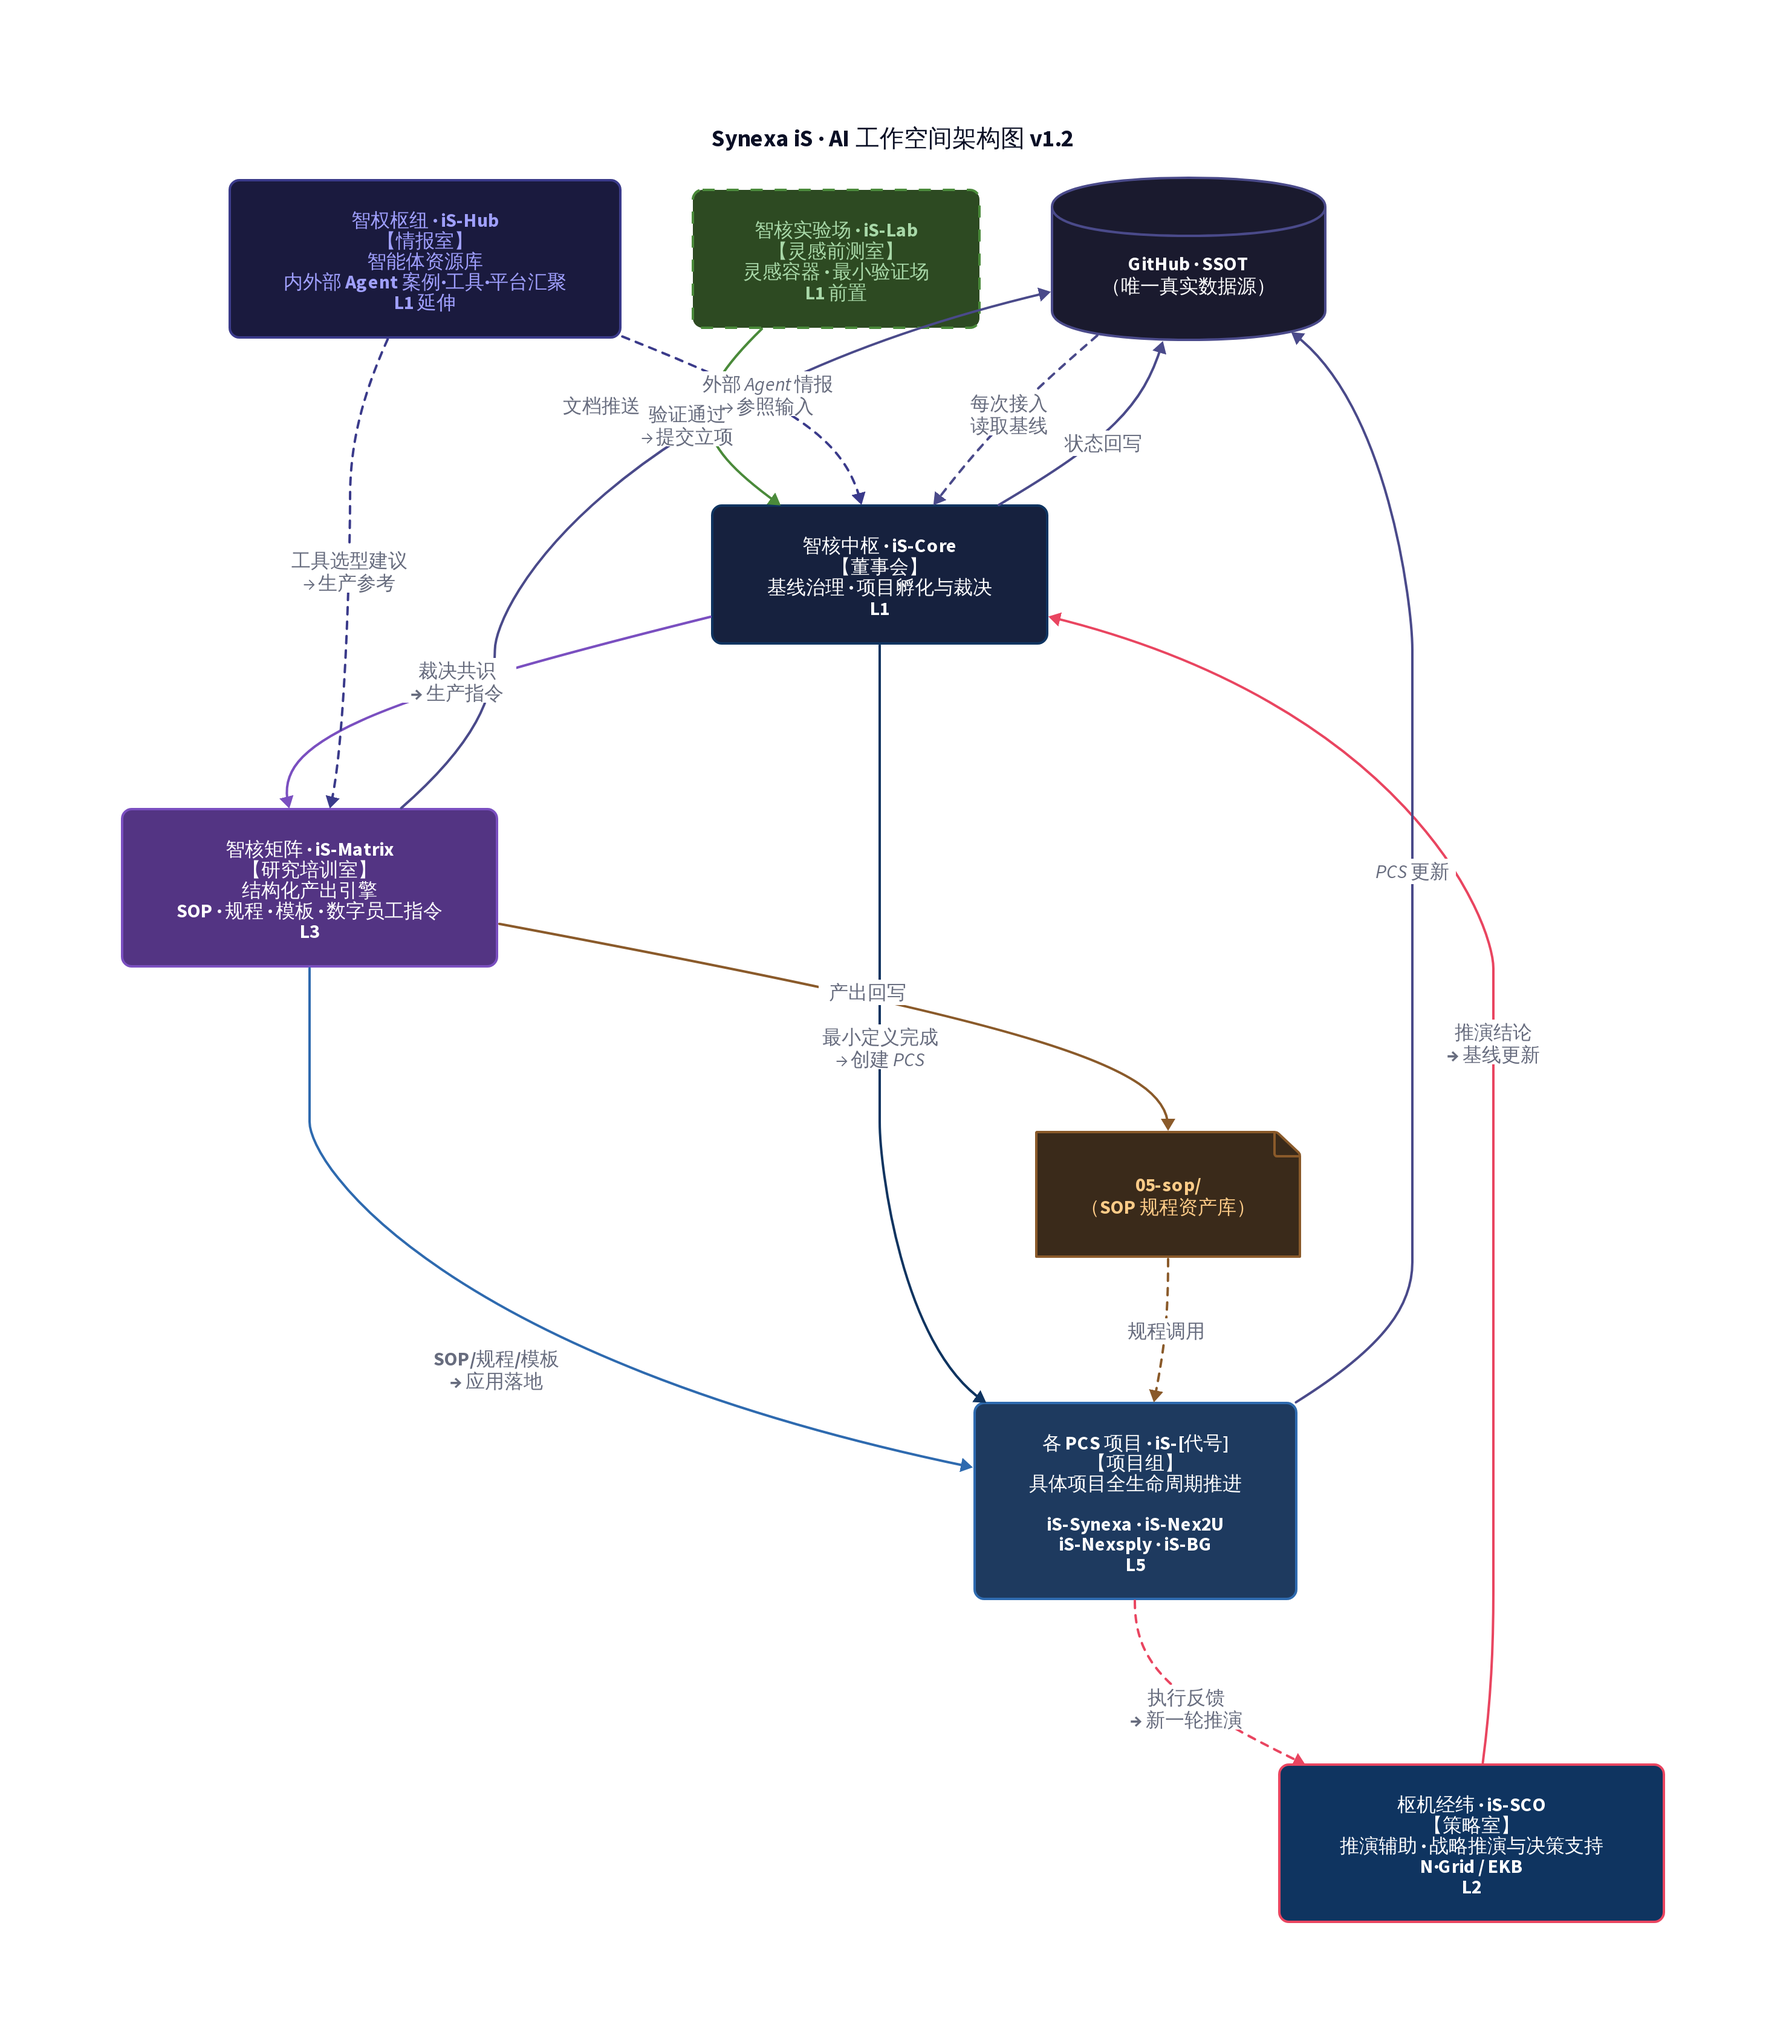
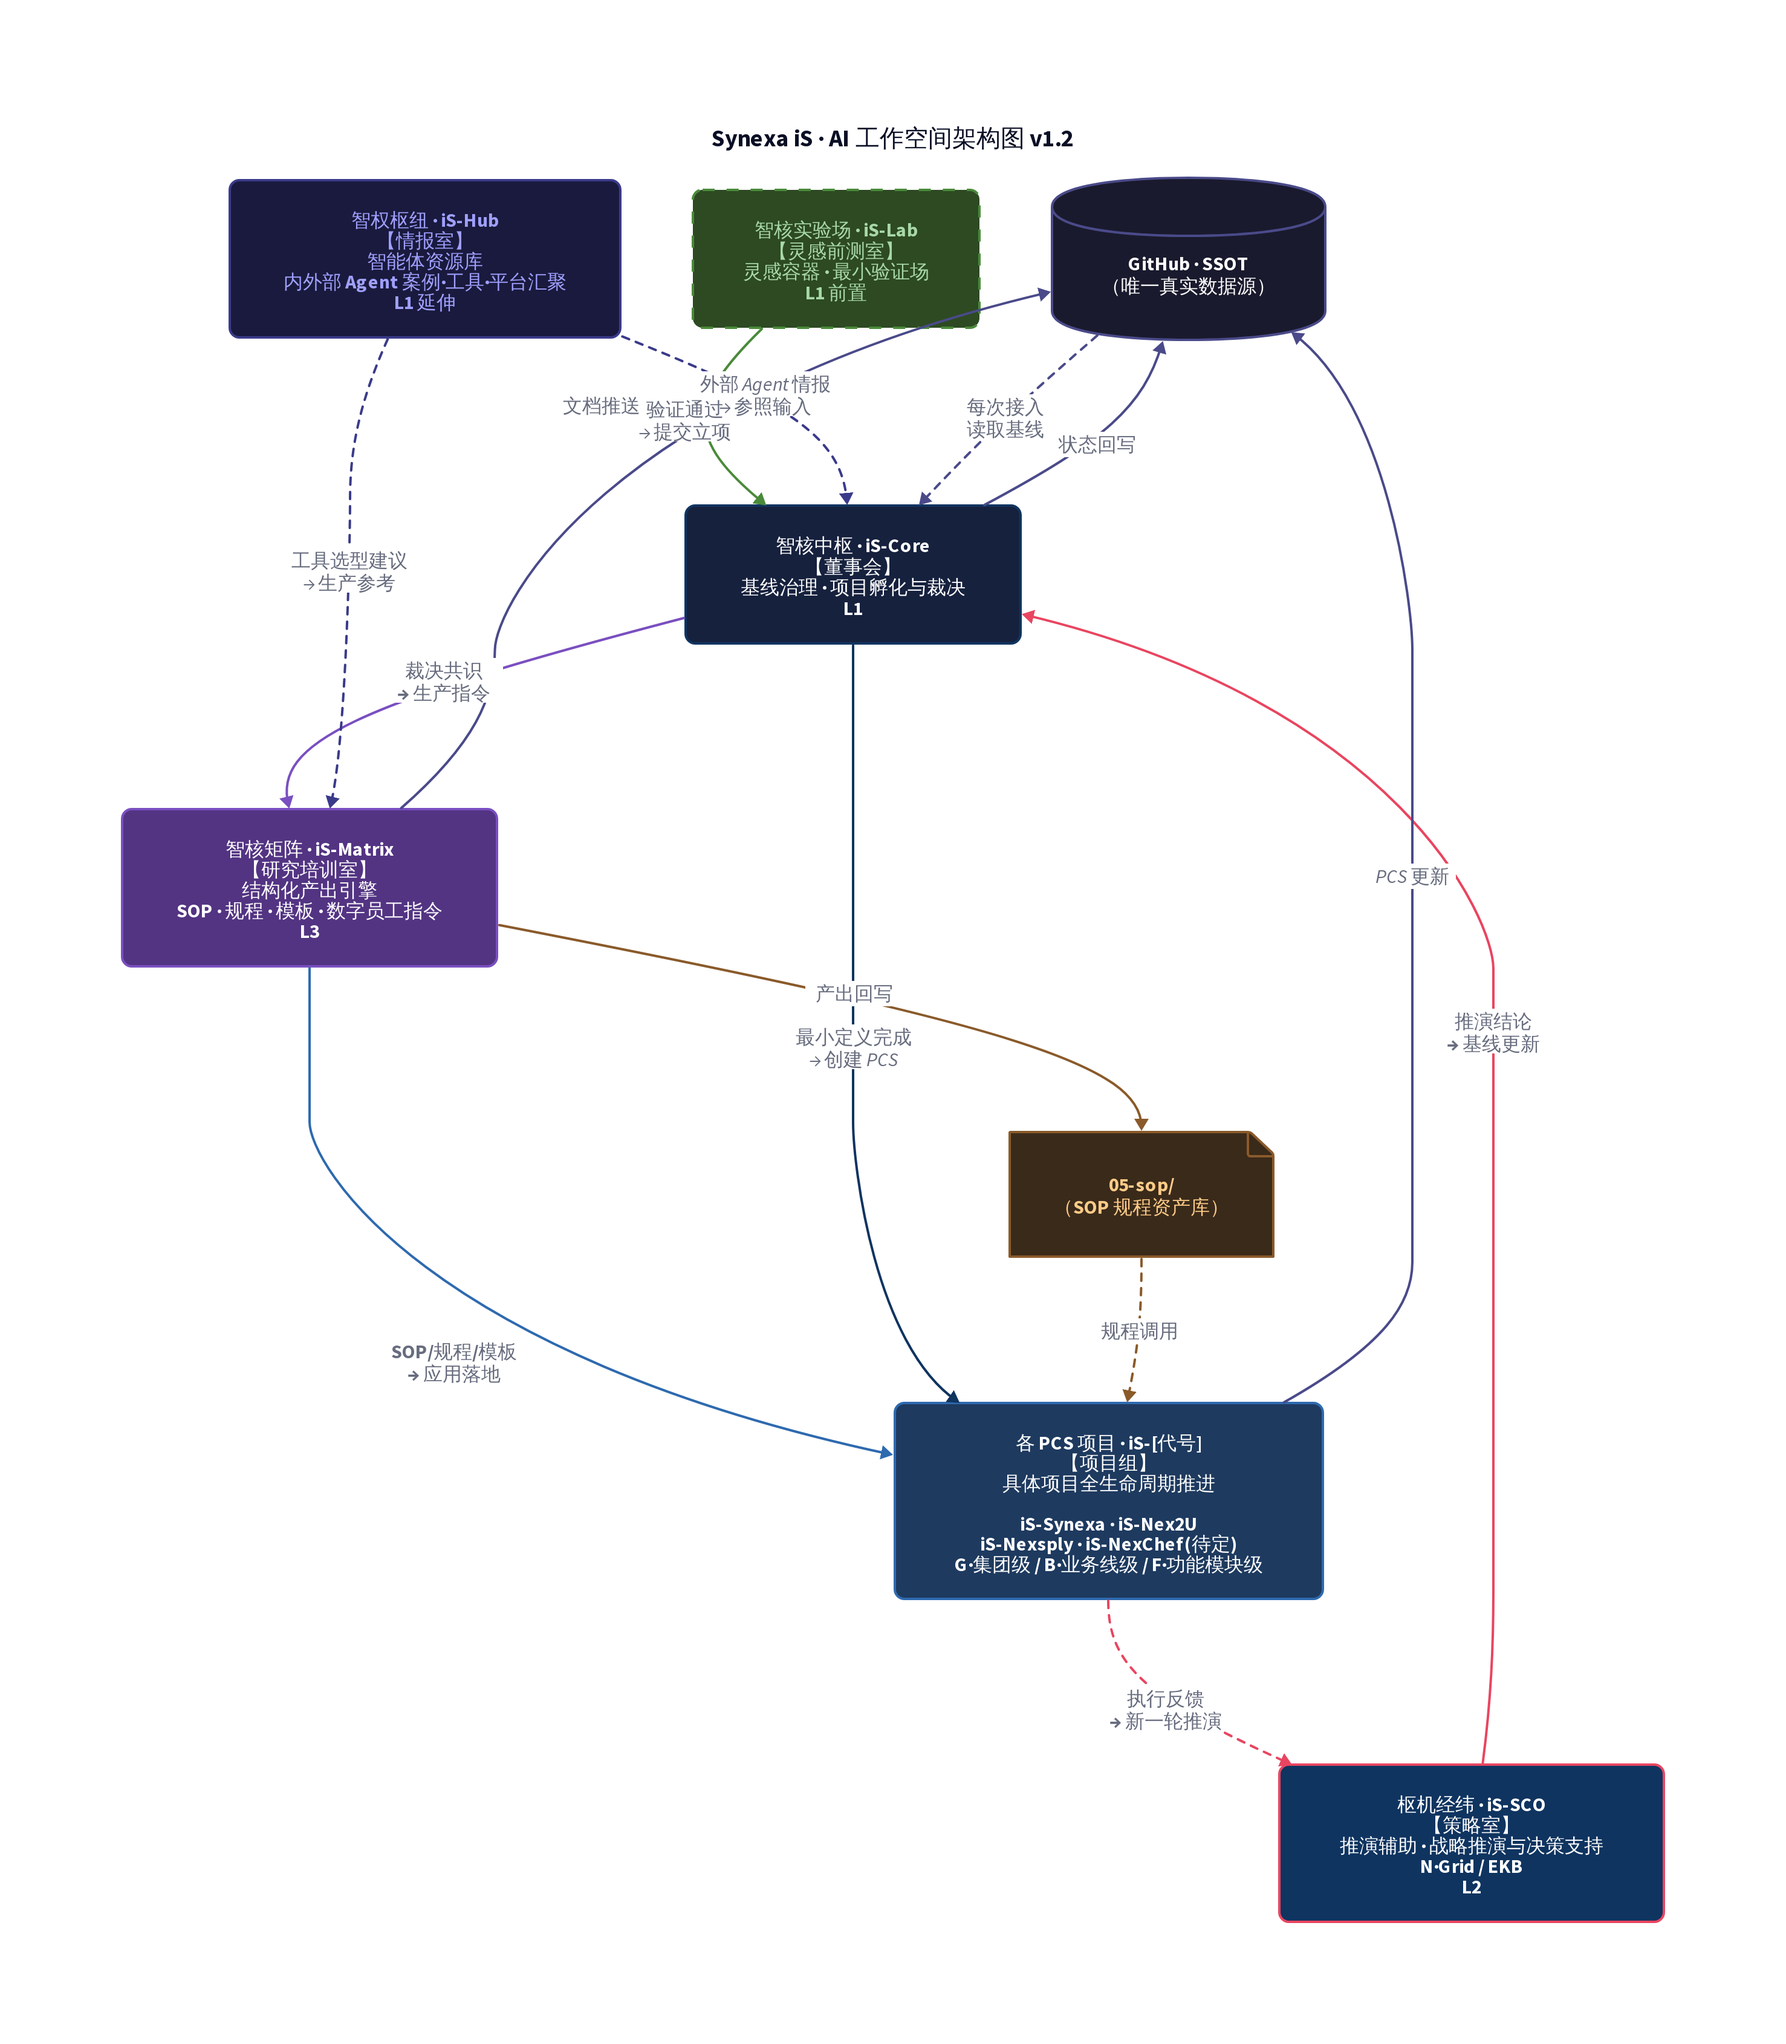
fix: 修正层级命名 G/B/F，更新 iS-BG 为 iS-NexChef（待定）
- _INDEX.md：层级改为 G·集团级 / B·业务线级 / F·功能模块级
- AI_Workspace_Architecture_v1.2.md：同步修正项目归位表达
- iS_Workspace_Architecture_v1.2.d2/png：更新 PCS 节点，重新渲染

diff --git a/03-projects/_INDEX.md b/03-projects/_INDEX.md
@@ -2,6 +2,8 @@
 
 > **定位**：所有活跃及归档项目的一览表，是 `03-projects/` 目录的导航入口。
 > **更新规则**：每次新增、归档或状态变更项目时，必须同步更新本文件。
+>
+> **层级说明**：G·集团级 / B·业务线级 / F·功能模块级
 
 ---
 
@@ -9,16 +11,16 @@
 
 | 项目代号 | 项目名称 | 层级 | 当前 Step | 目录路径 | 备注 |
 | :--- | :--- | :--- | :--- | :--- | :--- |
-| **iS-Nex2U** | 智食引擎 | L2 | Step 3 | `03-projects/Nex2U/` | 首个实战验证样板 |
-| **iS-BG** | Bella Giornata | L2 | 持续运营 | `03-projects/BG/` (待建) | 生活方式导向的现代意餐与轻社交复合空间 |
+| **iS-Nex2U** | 智食引擎 | B·业务线级 | Step 3 | `03-projects/Nex2U/` | 首个实战验证样板 |
+| **iS-NexChef** | NexChef（待定） | B·业务线级 | 持续运营 | `03-projects/NexChef/` (待建) | 餐饮与生活方式品牌，具体项目名称待确认 |
 
 ## 待启动项目 (Planned)
 
 | 项目代号 | 项目名称 | 层级 | 预期 Step | 目录路径 | 备注 |
 | :--- | :--- | :--- | :--- | :--- | :--- |
-| **iS-Synexa** | 超智建设 | L1 | 待启动 | `03-projects/Synexa/` (待建) | 超智品牌与系统本身的建设与对外表达 |
-| **iS-Nexsply** | 意臻供应链 | L2 | 待启动 | `03-projects/Nexsply/` (待建) | 全球优质原材料采购与供应链整合 |
-| **iS-SOP** | 规程资产库 | L3 | 待启动 | `05-sop/` | 生产并维护全体系的 SOP 与操作规程 |
+| **iS-Synexa** | 超智建设 | G·集团级 | 待启动 | `03-projects/Synexa/` (待建) | 超智品牌与系统本身的建设与对外表达 |
+| **iS-Nexsply** | 意臻供应链 | B·业务线级 | 待启动 | `03-projects/Nexsply/` (待建) | 全球优质原材料采购与供应链整合 |
+| **iS-SOP** | 规程资产库 | F·功能模块级 | 待启动 | `05-sop/` | 生产并维护全体系的 SOP 与操作规程 |
 
 ## 已归档项目 (Archived)
 

diff --git a/00-overview/AI_Workspace_Architecture_v1.2.md b/00-overview/AI_Workspace_Architecture_v1.2.md
@@ -56,7 +56,7 @@ iS-SCO · 策略室（新一轮推演）
 **职责（只做这四件事）**：
 1. 识别是否需要新项目（判断触发条件）
 2. 完成最小定义（Step 0A 级别：项目名称、一句话定义、层级归位、优先级）
-3. 做项目归位（L1 / L2 / L3）
+3. 做项目归位（G·集团级 / B·业务线级 / F·功能模块级）
 4. 确认优先级（与现有活跃项目的关系与排序）
 
 **停止边界**：
@@ -118,7 +118,7 @@ iS-SCO · 策略室（新一轮推演）
 | 超智建设 | `iS-Synexa` | 待立项 |
 | 智食引擎 | `iS-Nex2U` | Step 3 推进中 |
 | 意臻供应链 | `iS-Nexsply` | 待立项 |
-| Bella Giornata | `iS-BG` | 持续运营 |
+| NexChef（待定） | `iS-NexChef` | 持续运营，项目名称待确认 |
 
 ---
 
